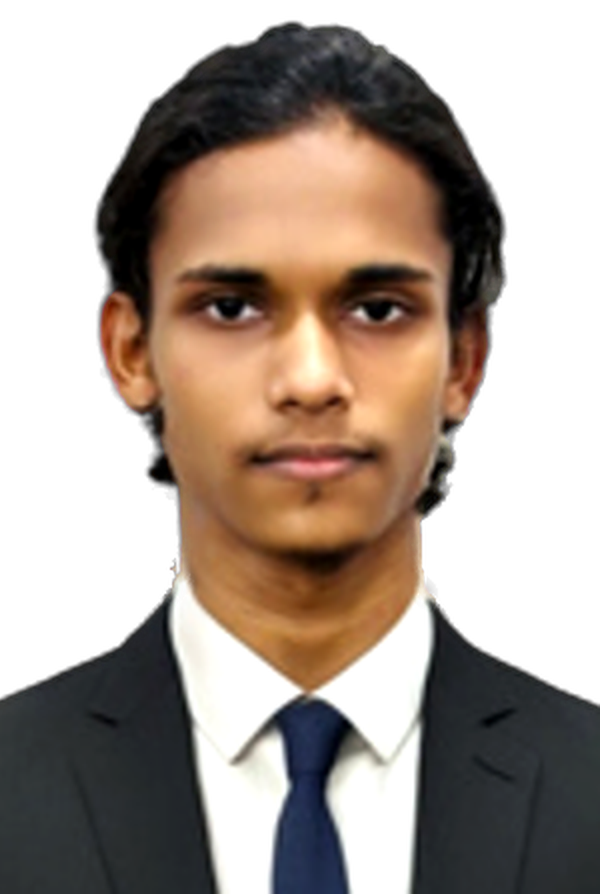
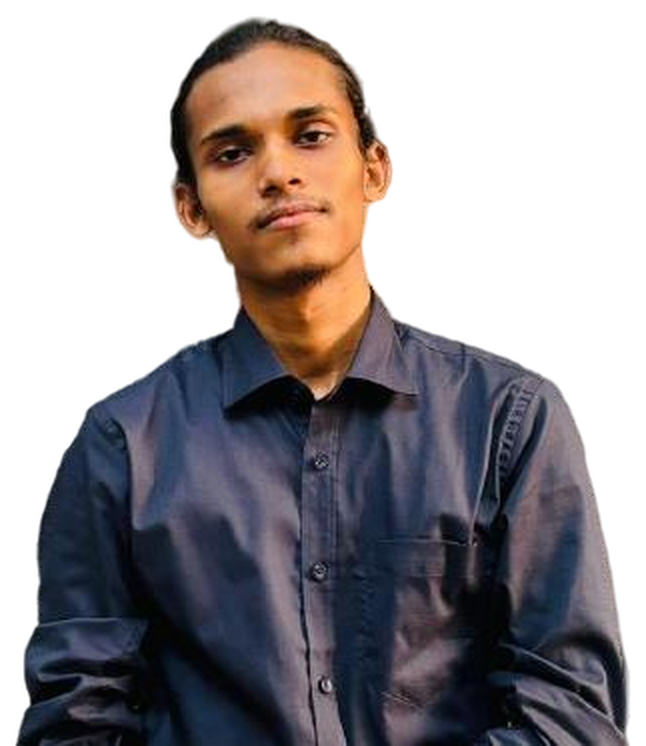
Use the GitHub profile photo, restore the original colours, calmer portrait
The portrait is now my GitHub profile photo with its background removed.
It rises out of an arch-shaped card with a fine grid and a thin cyan edge,
replacing the nebula disc, orbit ring and planet. The original palette is
back: navy #08111A, cyan #00DEC8, orange #FF9A5C and the Nunito font. The
starfield uses those colours too, with smaller stars and rarer, subtler
shooting stars. The link-preview image matches.

diff --git a/index.html b/index.html
@@ -6,7 +6,7 @@
 <title>Md. Rajibul Islam Rabbi — Portfolio</title>
 <meta name="description" content="Md. Rajibul Islam Rabbi — final-year Computer Science student and Jr. Executive at Daraz, moving into software development. Based in Dhaka, Bangladesh.">
 <meta name="author" content="Md. Rajibul Islam Rabbi">
-<meta name="theme-color" content="#050B12">
+<meta name="theme-color" content="#00DEC8">
 <meta property="og:type" content="website">
 <meta property="og:title" content="Md. Rajibul Islam Rabbi — Portfolio">
 <meta property="og:description" content="CSE student at Southeast University and Jr. Executive at Daraz. Employee of the Year 2025. Team lead of PulseHR, an HR system for Bangladeshi companies.">
@@ -16,7 +16,7 @@
 <link rel="icon" href="assets/favicon.svg" type="image/svg+xml">
 <link rel="preconnect" href="https://fonts.googleapis.com">
 <link rel="preconnect" href="https://fonts.gstatic.com" crossorigin>
-<link href="https://fonts.googleapis.com/css2?family=Fraunces:ital,opsz,wght@0,9..144,500;0,9..144,650;1,9..144,500&family=Inter:wght@400;500;600;700&display=swap" rel="stylesheet">
+<link href="https://fonts.googleapis.com/css2?family=Fraunces:ital,opsz,wght@0,9..144,500;0,9..144,650;1,9..144,500&family=Nunito:wght@400;500;600;700;800&display=swap" rel="stylesheet">
 <script>
   // Apply the saved theme before first paint, so the page never flashes the wrong one.
   (function () {
@@ -28,42 +28,44 @@
   })();
 </script>
 <style>
-/* ---------- tokens: dark (the default) ---------- */
+/* ---------- tokens: the original portfolio palette (dark, the default) ---------- */
 :root {
-  --bg: #050B12;
-  --surface: rgba(14, 26, 32, .82);
-  --surface-2: rgba(30, 49, 56, .6);
-  --solid: #0D1920;
-  --ink: #E6F1EF;
-  --muted: #9AB0AD;
-  --faint: #6E8380;
-  --line: rgba(120, 190, 180, .16);
-  --accent: #2DD4BF;
-  --accent-ink: #04211D;
-  --accent-soft: rgba(45, 212, 191, .11);
+  --bg: #08111A;
+  --surface: rgba(17, 28, 40, .86);   /* #111C28 */
+  --surface-2: #162233;
+  --solid: #111C28;
+  --ink: #D6F0EC;
+  --muted: #6FA8A4;
+  --faint: #4E807B;
+  --line: #1E4540;
+  --accent: #00DEC8;
+  --accent-ink: #08111A;
+  --accent-soft: rgba(0, 222, 200, .10);
   --warm: #FF9A5C;
-  --warm-soft: rgba(255, 154, 92, .13);
+  --warm-soft: rgba(255, 154, 92, .11);
   --shadow: 0 1px 2px rgba(0, 0, 0, .35), 0 12px 34px rgba(0, 0, 0, .35);
+  --glow: 0 0 28px rgba(0, 222, 200, .14);
   --radius: 18px;
   --max: 1080px;
   color-scheme: dark;
 }
 /* light, when chosen with the toggle */
 :root[data-theme="light"] {
-  --bg: #F6F7FA;
-  --surface: rgba(255, 255, 255, .9);
-  --surface-2: #EEF2F1;
+  --bg: #F4F8F8;
+  --surface: rgba(255, 255, 255, .92);
+  --surface-2: #E8F3F1;
   --solid: #FFFFFF;
-  --ink: #102221;
-  --muted: #566866;
-  --faint: #7B8B89;
-  --line: #E1E7E4;
-  --accent: #0F8F84;
+  --ink: #0D1B27;
+  --muted: #3F6966;
+  --faint: #6A8E8A;
+  --line: #CFE4E1;
+  --accent: #00897C;
   --accent-ink: #FFFFFF;
-  --accent-soft: rgba(15, 143, 132, .09);
-  --warm: #C85A20;
-  --warm-soft: rgba(217, 105, 46, .11);
-  --shadow: 0 1px 2px rgba(16, 34, 33, .05), 0 8px 28px rgba(16, 34, 33, .07);
+  --accent-soft: rgba(0, 137, 124, .09);
+  --warm: #C8571B;
+  --warm-soft: rgba(255, 154, 92, .16);
+  --shadow: 0 1px 2px rgba(13, 27, 39, .05), 0 8px 28px rgba(13, 27, 39, .07);
+  --glow: 0 0 0 transparent;
   color-scheme: light;
 }
 
@@ -71,7 +73,7 @@
 *, *::before, *::after { box-sizing: border-box; margin: 0; padding: 0; }
 html { scroll-behavior: smooth; scroll-padding-top: 84px; -webkit-text-size-adjust: 100%; }
 body {
-  font-family: 'Inter', system-ui, -apple-system, 'Segoe UI', sans-serif;
+  font-family: 'Nunito', system-ui, -apple-system, 'Segoe UI', sans-serif;
   background: var(--bg);
   color: var(--ink);
   line-height: 1.65;
@@ -83,17 +85,16 @@ body {
 .nebula, #sky { position: fixed; inset: 0; pointer-events: none; z-index: 0; }
 .nebula {
   background:
-    radial-gradient(60vw 45vw at 88% 4%, rgba(45, 212, 191, .16), transparent 62%),
-    radial-gradient(48vw 40vw at 6% 38%, rgba(139, 92, 246, .14), transparent 64%),
-    radial-gradient(52vw 42vw at 72% 92%, rgba(255, 154, 92, .10), transparent 62%),
-    radial-gradient(120vw 80vw at 50% 50%, #08131C 0%, #050B12 70%);
+    radial-gradient(55vw 50vw at 18% 88%, rgba(0, 222, 200, .10), transparent 60%),
+    radial-gradient(45vw 50vw at 82% 8%, rgba(0, 168, 150, .09), transparent 60%),
+    radial-gradient(40vw 35vw at 95% 70%, rgba(255, 154, 92, .05), transparent 60%),
+    #08111A;
 }
 :root[data-theme="light"] .nebula {
   background:
-    radial-gradient(60vw 45vw at 88% 4%, rgba(15, 143, 132, .10), transparent 62%),
-    radial-gradient(48vw 40vw at 6% 38%, rgba(124, 92, 246, .07), transparent 64%),
-    radial-gradient(52vw 42vw at 72% 92%, rgba(217, 105, 46, .07), transparent 62%),
-    #F6F7FA;
+    radial-gradient(55vw 50vw at 18% 88%, rgba(0, 137, 124, .08), transparent 60%),
+    radial-gradient(45vw 50vw at 82% 8%, rgba(0, 137, 124, .07), transparent 60%),
+    #F4F8F8;
 }
 header.nav, main, footer { position: relative; z-index: 1; }
 img { max-width: 100%; display: block; }
@@ -162,92 +163,69 @@ header.nav {
 .hero h1 em { font-style: italic; color: var(--accent); font-weight: 500; }
 .lead { font-size: 1.15rem; color: var(--muted); max-width: 34em; }
 .hero-ctas { display: flex; flex-wrap: wrap; gap: 12px; margin-top: 32px; }
-/* 3D portrait: a nebula disc behind, the cut-out photo in front breaking out of the
-   top of the disc, and the award badge nearest. Each layer sits at its own depth, so
-   tilting the stage (mouse on desktop, a slow float on touch) shows real parallax. */
-.portrait { position: relative; justify-self: center; width: min(100%, 360px); perspective: 1100px; }
+/* 3D portrait: the cut-out photo in front of an arch-topped card with a fine grid and
+   a thin cyan edge. The head rises just above the card's top edge; the card, the photo
+   and the award badge sit at different depths, so tilting the stage shows parallax. */
+.portrait { position: relative; justify-self: center; width: min(100%, 360px); perspective: 1200px; }
 .p3d {
   --rx: 0deg; --ry: 0deg;
-  position: relative; aspect-ratio: 1 / 1.33;
+  position: relative; aspect-ratio: 1 / 1.2;
   transform-style: preserve-3d;
   transform: rotateX(var(--rx)) rotateY(var(--ry));
-  transition: transform .35s cubic-bezier(.2, .7, .2, 1);
+  transition: transform .4s cubic-bezier(.2, .7, .2, 1);
 }
-.p3d.tilting { transition: transform .08s linear; }
-.p3d-disc {
-  position: absolute; left: 0; right: 0; bottom: 0; aspect-ratio: 1; border-radius: 50%;
-  transform: translateZ(-50px);
+.p3d.tilting { transition: transform .1s linear; }
+.p3d-card {
+  position: absolute; left: 0; right: 0; top: 16%; bottom: 0;
+  border-radius: 180px 180px 26px 26px;
+  transform: translateZ(-30px);
   background:
-    radial-gradient(1px 1px at 22% 30%, #fff, transparent), radial-gradient(1px 1px at 70% 22%, #fff, transparent),
-    radial-gradient(1.5px 1.5px at 82% 58%, #CFFBF3, transparent), radial-gradient(1px 1px at 35% 72%, #fff, transparent),
-    radial-gradient(1px 1px at 58% 44%, #FFD9BD, transparent), radial-gradient(1px 1px at 14% 55%, #D9CCFF, transparent),
-    radial-gradient(circle at 30% 28%, rgba(45, 212, 191, .45), transparent 55%),
-    radial-gradient(circle at 75% 78%, rgba(139, 92, 246, .45), transparent 58%),
-    radial-gradient(circle at 80% 20%, rgba(255, 154, 92, .22), transparent 45%),
-    radial-gradient(circle, #0F2A33 0%, #08151C 70%);
-  border: 1px solid rgba(127, 239, 226, .28);
-  box-shadow: 0 0 70px rgba(45, 212, 191, .22), 0 0 140px rgba(139, 92, 246, .14), inset 0 0 60px rgba(0, 0, 0, .55);
+    radial-gradient(ellipse 70% 55% at 50% 100%, rgba(0, 222, 200, .20), transparent 70%),
+    linear-gradient(180deg, #0D1B27 0%, #08111A 100%);
+  border: 1px solid rgba(0, 222, 200, .35);
+  box-shadow: 0 0 0 1px rgba(0, 222, 200, .06), 0 0 40px rgba(0, 222, 200, .16), 0 30px 60px rgba(0, 0, 0, .45);
+  overflow: hidden;
 }
-.p3d-orbit {
-  position: absolute; left: -10%; right: -10%; bottom: -8%; aspect-ratio: 1;
-  border-radius: 50%; border: 1px solid rgba(127, 239, 226, .30);
-  transform: translateZ(-20px) rotateX(74deg) rotateZ(-18deg);
-  transform-style: preserve-3d;
+.p3d-card::before { /* the hero's fine grid, fading out towards the edges */
+  content: ''; position: absolute; inset: 0;
+  background-image: linear-gradient(#163530 1px, transparent 1px), linear-gradient(90deg, #163530 1px, transparent 1px);
+  background-size: 26px 26px; opacity: .55;
+  -webkit-mask-image: radial-gradient(ellipse 70% 70% at 50% 40%, #000 20%, transparent 75%);
+  mask-image: radial-gradient(ellipse 70% 70% at 50% 40%, #000 20%, transparent 75%);
 }
-.p3d-orbit::after {
-  content: ''; position: absolute; top: 50%; left: 50%; width: 10px; height: 10px; margin: -5px;
-  border-radius: 50%; background: var(--warm); box-shadow: 0 0 14px 3px rgba(255, 154, 92, .7);
-  offset-path: circle(50%); offset-distance: 0%;
-  animation: orbit 14s linear infinite;
-}
-@keyframes orbit { to { offset-distance: 100%; } }
 .p3d-person {
   position: absolute; inset: 0;
-  transform: translateZ(40px);
-  /* Visible = the disc circle OR everything above the disc's middle. The head breaks
-     out of the top; below the middle the body is cut to the circle. */
-  -webkit-mask-image: radial-gradient(circle closest-side, #000 99%, transparent 100%), linear-gradient(#000, #000);
-  mask-image: radial-gradient(circle closest-side, #000 99%, transparent 100%), linear-gradient(#000, #000);
-  -webkit-mask-size: 100% 75.19%, 100% 62.4%;
-  mask-size: 100% 75.19%, 100% 62.4%;
-  -webkit-mask-position: bottom center, top center;
-  mask-position: bottom center, top center;
-  -webkit-mask-repeat: no-repeat;
-  mask-repeat: no-repeat;
-  -webkit-mask-composite: source-over;
-  mask-composite: add;
+  transform: translateZ(30px);
+  /* the body fades into the card at the bottom */
+  -webkit-mask-image: linear-gradient(to bottom, #000 78%, transparent 98%);
+  mask-image: linear-gradient(to bottom, #000 78%, transparent 98%);
 }
 .p3d-person img {
-  position: absolute; top: 4%; left: 7%; width: 86%; height: auto; max-width: none;
-  filter: drop-shadow(0 0 1px rgba(127, 239, 226, .55)) drop-shadow(0 0 18px rgba(45, 212, 191, .28));
-  /* fade the photo's cut-off shoulder edges into the disc */
-  -webkit-mask-image: linear-gradient(to right, transparent 0, #000 13%, #000 87%, transparent 100%);
-  mask-image: linear-gradient(to right, transparent 0, #000 13%, #000 87%, transparent 100%);
+  position: absolute; top: 2%; left: 0; width: 100%; height: auto; max-width: none;
+  filter: drop-shadow(0 0 1px rgba(0, 222, 200, .35)) drop-shadow(0 14px 24px rgba(0, 0, 0, .45));
 }
-:root[data-theme="light"] .p3d-disc {
+:root[data-theme="light"] .p3d-card {
   background:
-    radial-gradient(circle at 30% 28%, rgba(15, 143, 132, .28), transparent 55%),
-    radial-gradient(circle at 75% 78%, rgba(124, 92, 246, .22), transparent 58%),
-    radial-gradient(circle at 80% 20%, rgba(217, 105, 46, .16), transparent 45%),
-    radial-gradient(circle, #FFFFFF 0%, #E9F3F1 75%);
-  border-color: rgba(15, 143, 132, .25);
-  box-shadow: 0 0 60px rgba(15, 143, 132, .16), inset 0 0 40px rgba(15, 143, 132, .08);
+    radial-gradient(ellipse 70% 55% at 50% 100%, rgba(0, 137, 124, .16), transparent 70%),
+    linear-gradient(180deg, #FFFFFF 0%, #EAF4F2 100%);
+  border-color: rgba(0, 137, 124, .3);
+  box-shadow: 0 20px 50px rgba(13, 27, 39, .12);
 }
-:root[data-theme="light"] .p3d-orbit { border-color: rgba(15, 143, 132, .3); }
-:root[data-theme="light"] .p3d-person img { filter: drop-shadow(0 10px 18px rgba(16, 34, 33, .18)); }
+:root[data-theme="light"] .p3d-card::before { background-image: linear-gradient(#D6E9E6 1px, transparent 1px), linear-gradient(90deg, #D6E9E6 1px, transparent 1px); }
+:root[data-theme="light"] .p3d-person img { filter: drop-shadow(0 12px 22px rgba(13, 27, 39, .18)); }
 @media (hover: none), (pointer: coarse) {
-  .p3d { animation: float 7s ease-in-out infinite; }
+  .p3d { animation: float 8s ease-in-out infinite; }
 }
 @keyframes float {
-  0%, 100% { transform: rotateX(4deg) rotateY(-6deg) translateY(0); }
-  50% { transform: rotateX(-3deg) rotateY(6deg) translateY(-6px); }
+  0%, 100% { transform: rotateX(2deg) rotateY(-4deg) translateY(0); }
+  50% { transform: rotateX(-2deg) rotateY(4deg) translateY(-5px); }
 }
 @media (prefers-reduced-motion: reduce) {
-  .p3d, .p3d-orbit::after { animation: none; }
+  .p3d { animation: none; }
 }
 .award {
-  position: absolute; left: -34px; bottom: 2%;
-  transform: translateZ(80px);
+  position: absolute; left: -30px; bottom: 7%;
+  transform: translateZ(60px);
   display: flex; align-items: center; gap: 12px;
   background: var(--solid); border: 1px solid var(--line); border-radius: 16px;
   padding: 12px 16px; box-shadow: var(--shadow);
@@ -404,8 +382,7 @@ footer { padding: 40px 0 56px; color: var(--faint); font-size: .9rem; }
   .project-media { position: static; }
   .hero-grid { gap: 48px; }
   .portrait { order: -1; width: min(100%, 270px); }
-  .p3d-orbit { left: -5%; right: -5%; }
-  .award { left: 50%; transform: translateX(-50%) translateZ(80px); bottom: -22px; white-space: nowrap; }
+  .award { left: 50%; transform: translateX(-50%) translateZ(60px); bottom: -22px; white-space: nowrap; }
   .stats { grid-template-columns: repeat(2, 1fr); margin-top: 56px; }
   .stat:nth-child(3) { border-left: 0; }
   .stat:nth-child(n+3) { border-top: 1px solid var(--line); }
@@ -491,12 +468,11 @@ footer { padding: 40px 0 56px; color: var(--faint); font-size: .9rem; }
         </div>
         <div class="portrait reveal" id="portrait">
           <div class="p3d" id="p3d">
-            <div class="p3d-disc" aria-hidden="true"></div>
-            <div class="p3d-orbit" aria-hidden="true"></div>
+            <div class="p3d-card" aria-hidden="true"></div>
             <div class="p3d-person">
               <picture>
                 <source srcset="assets/rabbi-cutout.webp" type="image/webp">
-                <img src="assets/rabbi-cutout.png" width="600" height="894" alt="Portrait of Md. Rajibul Islam Rabbi">
+                <img src="assets/rabbi-cutout.png" width="646" height="746" alt="Portrait of Md. Rajibul Islam Rabbi">
               </picture>
             </div>
             <div class="award">
@@ -777,8 +753,8 @@ footer { padding: 40px 0 56px; color: var(--faint); font-size: .9rem; }
     var still = window.matchMedia('(prefers-reduced-motion: reduce)').matches;
     var DPR = Math.min(window.devicePixelRatio || 1, 2);
     var W, H, stars = [], shots = [], raf = null, last = 0, nextShot = 0, mobile;
-    var DARK = ['#FFFFFF', '#FFFFFF', '#FFFFFF', '#CFFBF3', '#BFEFFF', '#FFD9BD', '#D9CCFF'];
-    var LIGHT = ['#0F8F84', '#3B5B66', '#7C5CF6', '#C85A20'];
+    var DARK = ['#FFFFFF', '#FFFFFF', '#D6F0EC', '#D6F0EC', '#00DEC8', '#00DEC8', '#FF9A5C'];
+    var LIGHT = ['#00897C', '#3F6966', '#C8571B'];
     function isLight() { return document.documentElement.dataset.theme === 'light'; }
 
     function build() {
@@ -792,7 +768,7 @@ footer { padding: 40px 0 56px; color: var(--faint); font-size: .9rem; }
         var z = Math.pow(Math.random(), 1.6); // most stars far away, a few close
         stars.push({
           x: Math.random() * W, y: Math.random() * H, z: z,
-          r: 0.3 + z * 1.5,
+          r: 0.25 + z * 1.15,
           tw: Math.random() * 6.283, sp: 0.4 + Math.random() * 1.4,
           vx: (Math.random() - 0.5) * 0.006 * (0.4 + z),
           c: Math.floor(Math.random() * 1000)
@@ -814,19 +790,15 @@ footer { padding: 40px 0 56px; color: var(--faint); font-size: .9rem; }
         ctx.globalAlpha = light ? a * 0.4 : a;
         ctx.fillStyle = pal[s.c % pal.length];
         ctx.beginPath(); ctx.arc(s.x, y, s.r, 0, 6.283); ctx.fill();
-        if (!light && s.z > 0.75) { // soft glow on the closest stars
-          ctx.globalAlpha = a * 0.06;
-          ctx.beginPath(); ctx.arc(s.x, y, s.r * 2.6, 0, 6.283); ctx.fill();
-        }
         if (s.z > 0.45) near.push(s.x, y);
       }
       if (!mobile) { // faint constellation lines between nearby close stars
-        ctx.strokeStyle = light ? '#0F8F84' : '#7FEFE2'; ctx.lineWidth = 0.6;
+        ctx.strokeStyle = light ? '#00897C' : '#00DEC8'; ctx.lineWidth = 0.6;
         for (var p = 0; p < near.length; p += 2) {
           for (var q = p + 2; q < near.length; q += 2) {
             var dx = near[p] - near[q], dy = near[p + 1] - near[q + 1], d2 = dx * dx + dy * dy;
             if (d2 < 11000) {
-              ctx.globalAlpha = (light ? 0.05 : 0.09) * (1 - d2 / 11000);
+              ctx.globalAlpha = (light ? 0.05 : 0.07) * (1 - d2 / 11000);
               ctx.beginPath(); ctx.moveTo(near[p], near[p + 1]); ctx.lineTo(near[q], near[q + 1]); ctx.stroke();
             }
           }
@@ -837,16 +809,16 @@ footer { padding: 40px 0 56px; color: var(--faint); font-size: .9rem; }
         if (t > nextShot) {
           var ang = 0.35 + Math.random() * 0.35, spd = 0.9 + Math.random() * 0.6;
           shots.push({ x: Math.random() * W * 0.8 + W * 0.1, y: Math.random() * H * 0.4, vx: Math.cos(ang) * spd, vy: Math.sin(ang) * spd, life: 0, max: 700 + Math.random() * 500 });
-          nextShot = t + 4500 + Math.random() * 7000;
+          nextShot = t + 9000 + Math.random() * 9000;
         }
         for (var k = shots.length - 1; k >= 0; k--) {
           var sh = shots[k]; sh.life += dt; sh.x += sh.vx * dt; sh.y += sh.vy * dt;
           var f = sh.life / sh.max; if (f >= 1) { shots.splice(k, 1); continue; }
-          var tail = 90 * (1 - f * 0.5), tx = sh.x - sh.vx * tail / 1.2, ty = sh.y - sh.vy * tail / 1.2;
+          var tail = 70 * (1 - f * 0.5), tx = sh.x - sh.vx * tail / 1.2, ty = sh.y - sh.vy * tail / 1.2;
           var g = ctx.createLinearGradient(sh.x, sh.y, tx, ty);
-          g.addColorStop(0, 'rgba(255,255,255,' + (0.9 * (1 - f)) + ')');
-          g.addColorStop(1, 'rgba(127,239,226,0)');
-          ctx.globalAlpha = 1; ctx.strokeStyle = g; ctx.lineWidth = 1.4;
+          g.addColorStop(0, 'rgba(214,240,236,' + (0.7 * (1 - f)) + ')');
+          g.addColorStop(1, 'rgba(0,222,200,0)');
+          ctx.globalAlpha = 1; ctx.strokeStyle = g; ctx.lineWidth = 1;
           ctx.beginPath(); ctx.moveTo(sh.x, sh.y); ctx.lineTo(tx, ty); ctx.stroke();
         }
       }

diff --git a/README.md b/README.md
@@ -19,10 +19,10 @@ No build step. Edit `index.html` and push to `main`; GitHub Pages publishes it.
 
 ## Features
 
-- Animated starfield background (twinkling stars, parallax on scroll, constellation lines,
-  shooting stars); pauses when the tab is hidden and stays still for reduced-motion users
-- 3D portrait: the cut-out photo breaks out of a nebula disc with an orbiting planet, and
-  tilts with the mouse (floats gently on touch screens)
+- Animated starfield background in the site's cyan and orange (twinkling stars, parallax on
+  scroll, faint constellation lines, occasional shooting stars); pauses when the tab is hidden and stays still for reduced-motion users
+- 3D portrait: the cut-out photo (from my GitHub profile) rises out of an arch-shaped card,
+  and tilts with the mouse (floats gently on touch screens)
 - Dark theme by default, with a light theme toggle that remembers the choice
 - Works on phones, with a menu button below 760 px
 - Keyboard focus styles, a skip link, and reduced motion for visitors who ask for it
